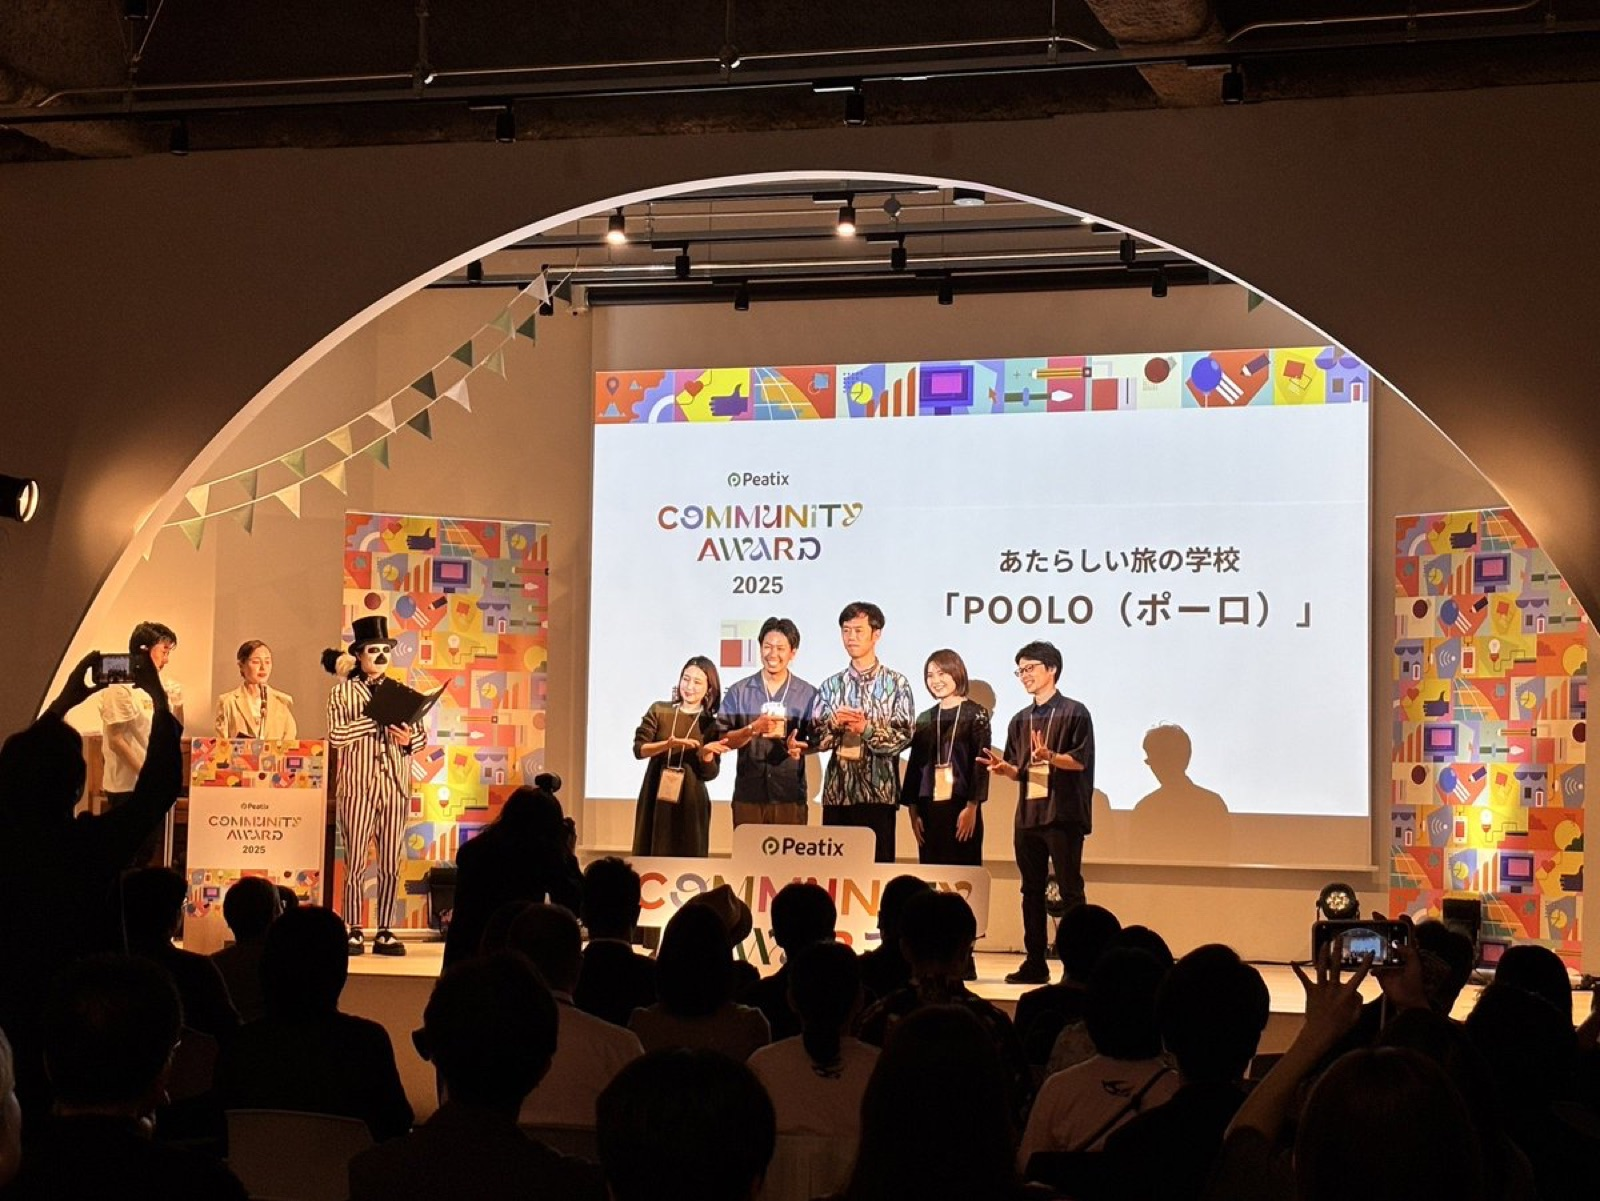
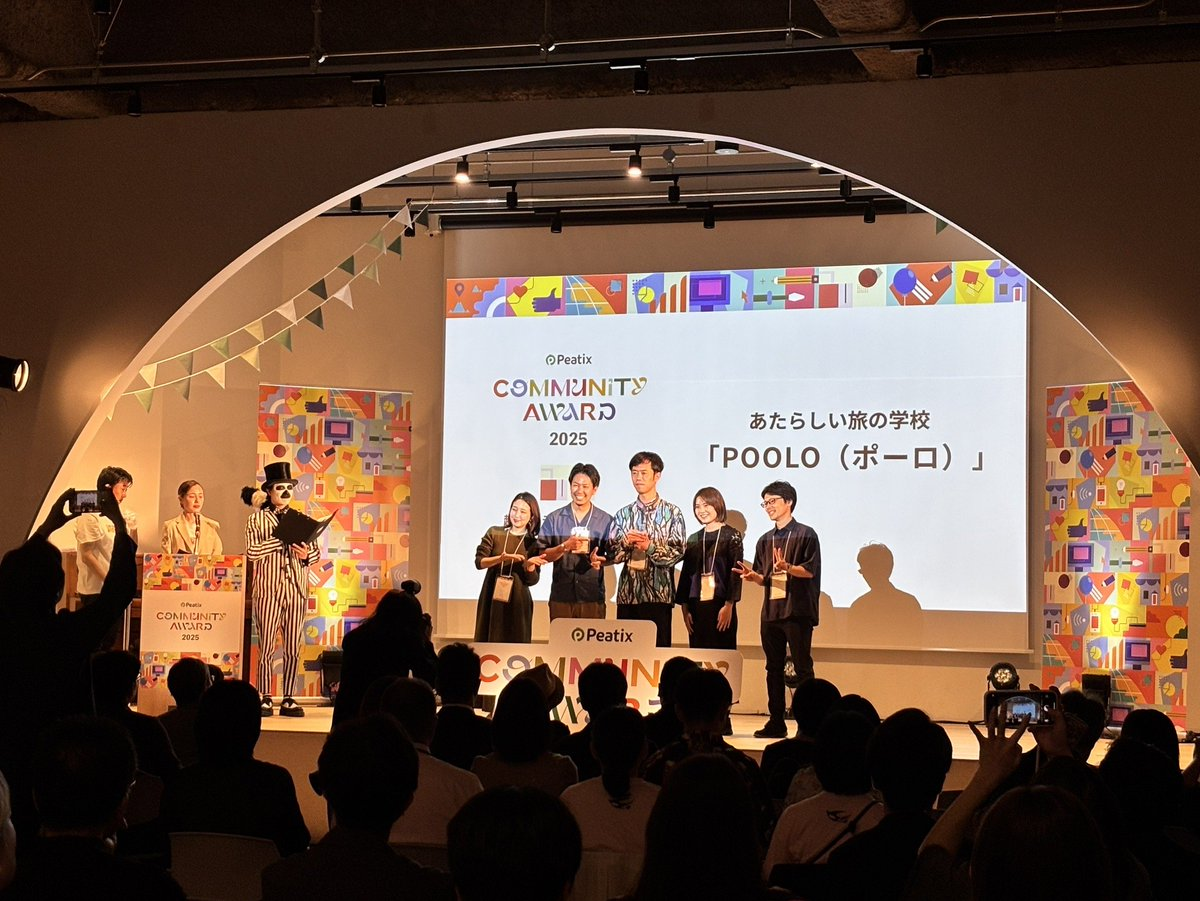
event-v02: Peatix Award写真追加＋フッターTABIPPOロゴ拡大
About POOLOセクションのPeatix Award受賞メタ情報の横に、
表彰式写真（02_peatix_award.jpg）を2カラム配置で追加。
スマホは1カラム縦積み。

フッターTABIPPOロゴをさらに大きく（PC 60→80px / モバイル 42→56px）。
POOLOロゴの文字部分と視覚的に揃える。

diff --git a/event-v02/index.html b/event-v02/index.html
@@ -839,7 +839,6 @@ a:hover { opacity: 0.7; }
 .about-text strong { font-weight: 500; color: var(--main); }
 
 .about-meta {
-  margin-top: 32px;
   padding: 18px 24px;
   background: var(--bg-warm);
   border-left: 2px solid var(--sub);
@@ -850,6 +849,23 @@ a:hover { opacity: 0.7; }
 }
 
 .about-meta strong { color: var(--main); font-weight: 500; }
+
+.about-award {
+  margin-top: 36px;
+  display: grid;
+  grid-template-columns: 240px 1fr;
+  gap: 24px;
+  align-items: center;
+}
+
+.about-award img {
+  width: 100%;
+  height: 100%;
+  object-fit: cover;
+  aspect-ratio: 4 / 3;
+  display: block;
+  border: 1px solid var(--line);
+}
 
 /* ===== Details table ===== */
 .details-table {
@@ -1001,7 +1017,7 @@ a:hover { opacity: 0.7; }
 }
 
 .footer-org img[src*="poolo_logo"] { height: 38px; }
-.footer-org img[src*="tabippo_logo"] { height: 60px; }
+.footer-org img[src*="tabippo_logo"] { height: 80px; }
 
 .footer-org a {
   display: inline-flex;
@@ -1115,6 +1131,8 @@ a:hover { opacity: 0.7; }
 
   .about-photo { aspect-ratio: 4 / 3; margin-bottom: 32px; }
   .about-text { font-size: 14.5px; }
+  .about-award { grid-template-columns: 1fr; gap: 16px; margin-top: 28px; }
+  .about-award img { aspect-ratio: 16 / 11; }
 
   .details-table th { width: 100px; font-size: 11px; letter-spacing: 0.12em; padding: 18px 12px 18px 0; }
   .details-table td { padding: 18px 0; font-size: 13.5px; }
@@ -1132,8 +1150,8 @@ a:hover { opacity: 0.7; }
 
   .footer-org { gap: 20px; }
   .footer-org img[src*="poolo_logo"] { height: 26px; }
-  .footer-org img[src*="tabippo_logo"] { height: 42px; }
-  .footer-org-divider { height: 28px; }
+  .footer-org img[src*="tabippo_logo"] { height: 56px; }
+  .footer-org-divider { height: 32px; }
 }
 </style>
 </head>
@@ -1455,8 +1473,11 @@ a:hover { opacity: 0.7; }
       <p>7年以上にわたり、旅を入り口に「自分の生き方・働き方を問い直す」プログラムを運営してきました。</p>
       <p>中心プログラムは、8ヶ月のオンラインコミュニティ <strong>POOLO LIFE</strong>。50名規模で関心探究型の人が集まり、仲間と問いを重ねながら、自分のことばを更新していきます。</p>
       <p>この3時間のオフラインイベントは、その8ヶ月を凝縮した <strong>体験版</strong>です。POOLO LIFEに興味のある方、まずは空気感を確かめてみたい方も、どうぞ気軽にお越しください。</p>
-      <div class="about-meta">
-        <strong>Peatix Community Award 2025「あたらしい旅の学校」部門</strong>受賞
+      <div class="about-award">
+        <img src="images/02_peatix_award.jpg" alt="Peatix Community Award 2025 表彰式">
+        <div class="about-meta">
+          <strong>Peatix Community Award 2025「あたらしい旅の学校」部門</strong>受賞
+        </div>
       </div>
     </div>
   </div>
